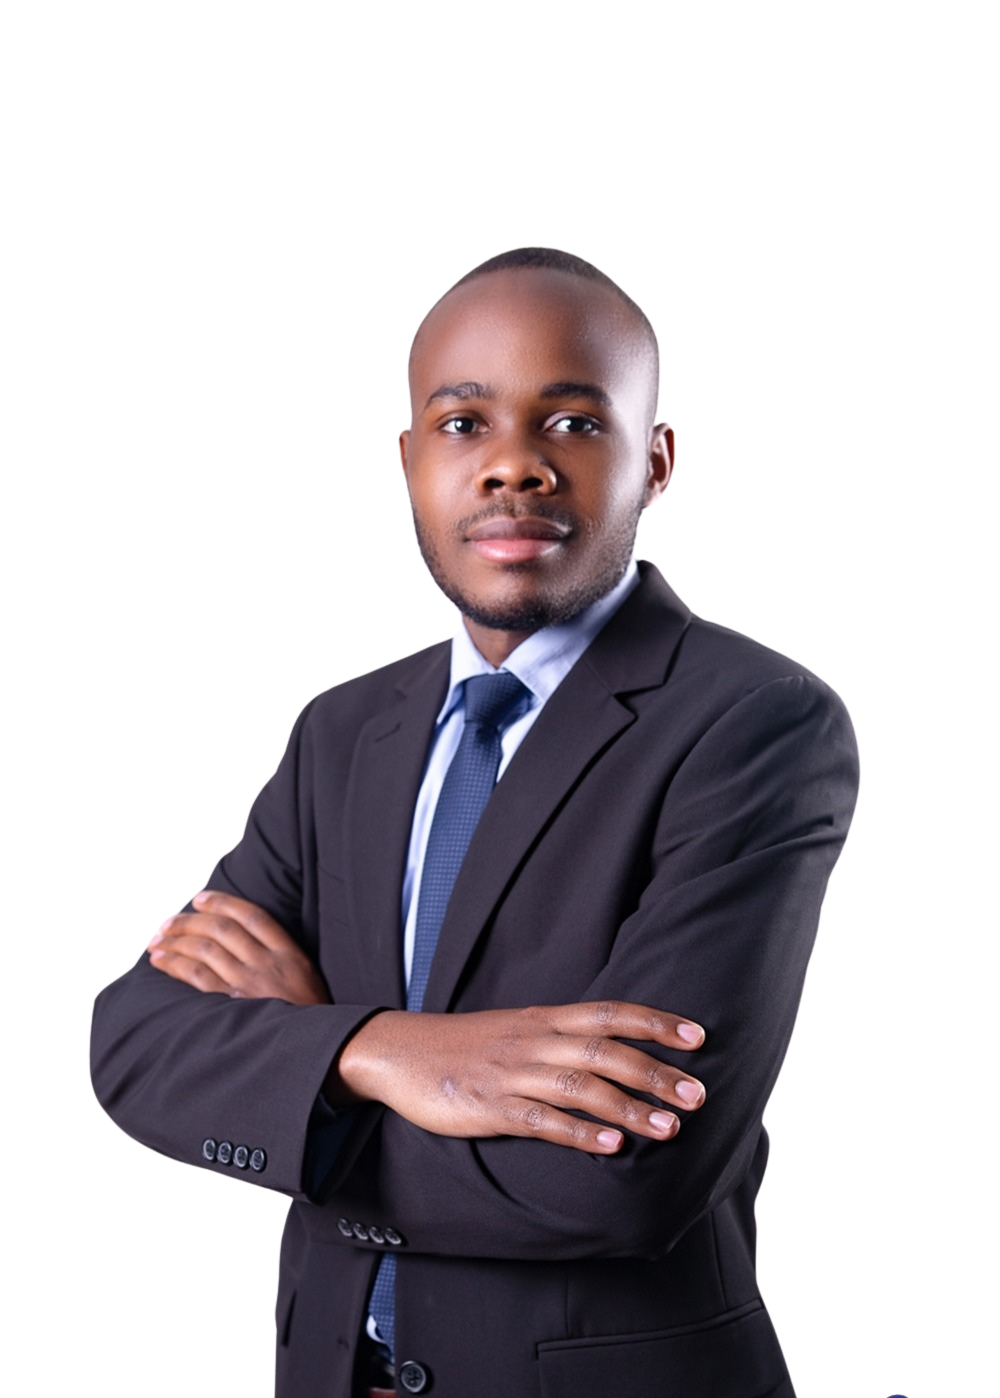
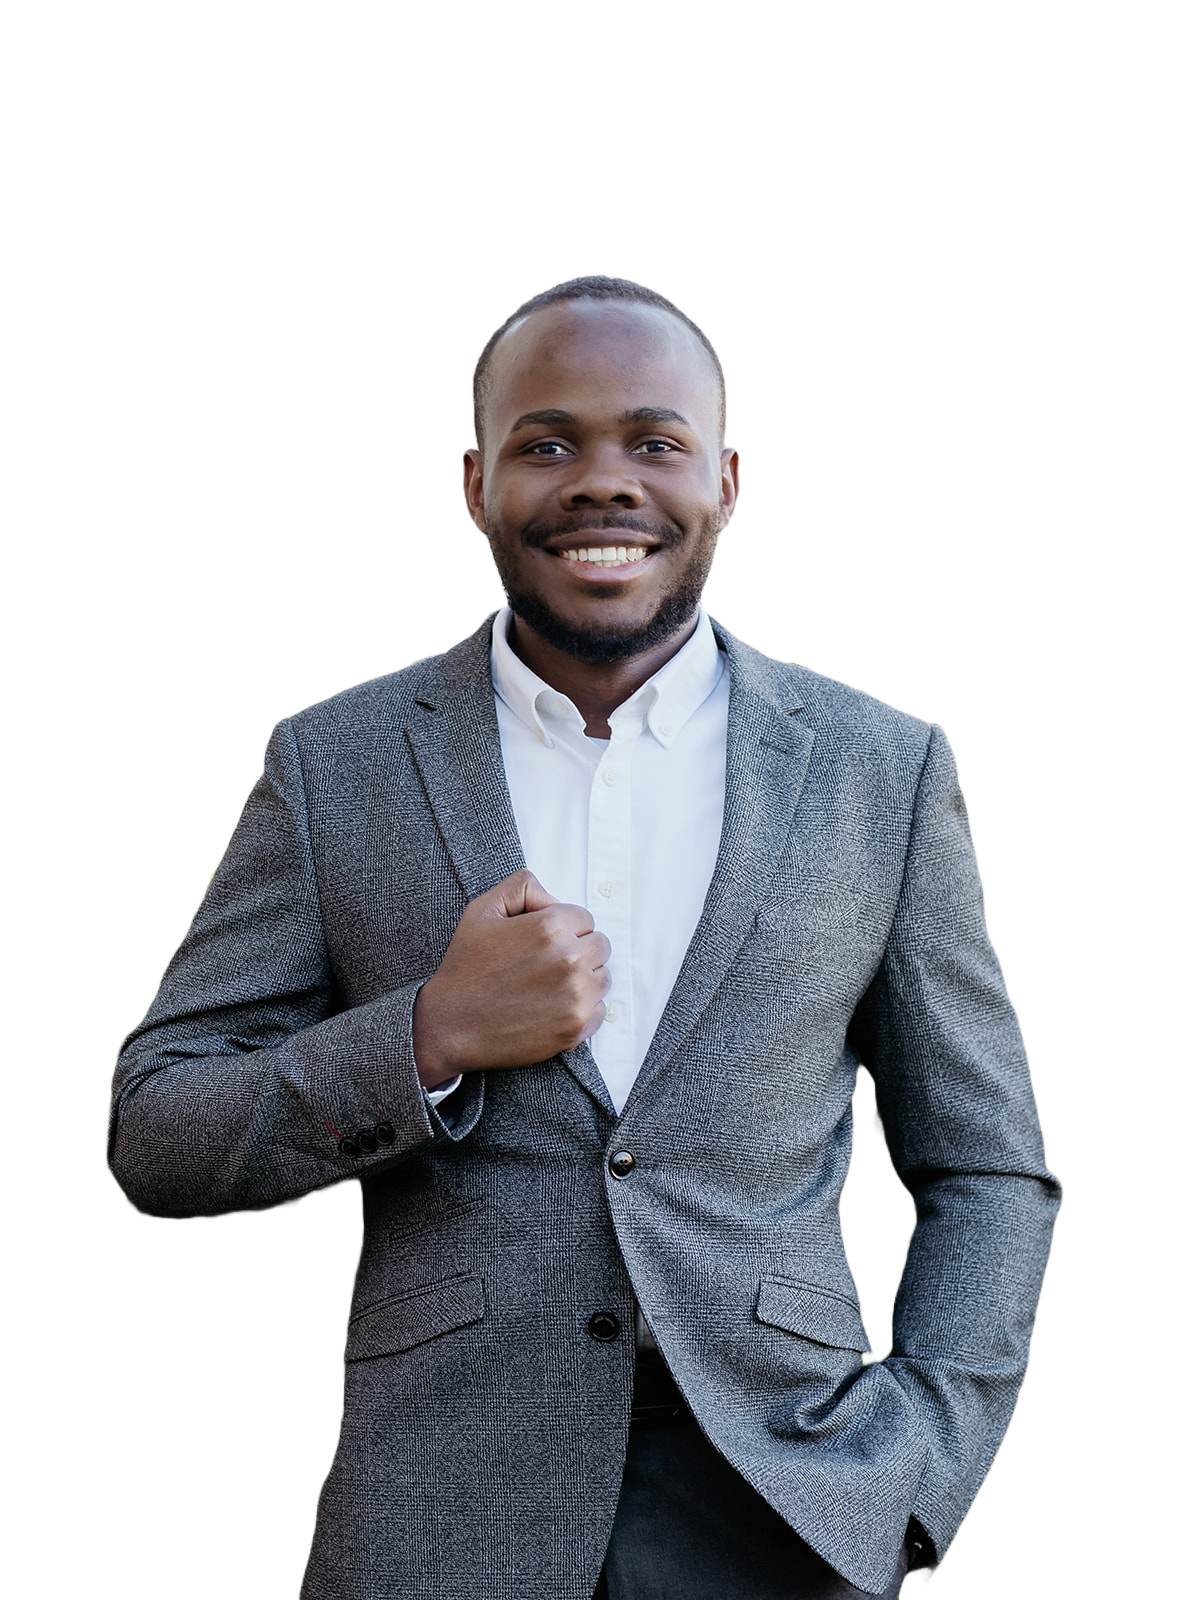
Changed hero image

diff --git a/src/components/Hero.jsx b/src/components/Hero.jsx
@@ -87,7 +87,7 @@ const Hero = () => {
             className="absolute bottom-0 ml-[50vw] 
             lg:ml-[75vw] md:ml-[60vw] xmd:ml-[60vw] 2xl:ml-[73vw]
             sm:h-[90vh] md:h-[70vh] xl:h-[80vh]"
-            src='public/samuel1.png'
+            src='public/samuel.png'
             alt="shaquille"
           />
         </div>
